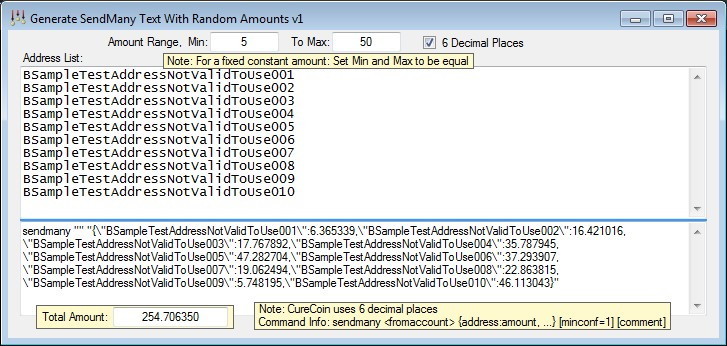
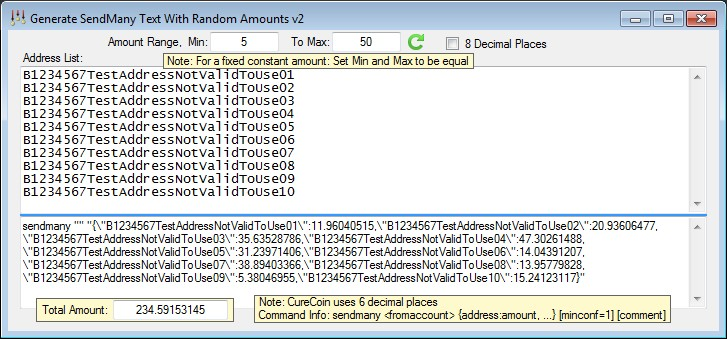
v2 release changes: Added a refresh/regenerate button. Added CTRL+A support to Select All text. Allowed more text in the text boxes

Changed region(s): [[0.0, 0.6195, 0.9986, 1.0], [0.0303, 0.0295, 0.9684, 0.59], [0.8473, 0.0295, 0.9986, 0.0885]]

diff --git a/README.md b/README.md
@@ -2,22 +2,23 @@
 
 ![Screenshot](Screenshot.jpg)
 
-## Releases
-
+## Features
 - Simple SendMany command text generator for use with Bitcoin-like wallets (CureCoin) for giveaways or airdrops
-- **See [GenSendManyText Releases](https://github.com/Hou5e/GenSendManyText/releases) for the Windows executable**
+- Just copy and paste the generated text into the wallet's: Help | Debug Window | Console tab
 - Creates random amounts based on the specified range of values to 6 or 8 decimal places
 - Creates fixed constant amounts if the Min and Max are the same value
-- Just copy and paste the generated text into the wallet's: Help | Debug Window | Console tab
+- Auto-regenerates on changes or pressing the regenerate button, and displays the total amount to distribute
+- Supports CTRL+A to Select All text
+
+## Releases
+- **See [GenSendManyText Releases](https://github.com/Hou5e/GenSendManyText/releases) for the Windows executable**
 - **Please ask questions on the Discord Contact links below**
 - GenSendManyText is written in VB.NET, compiled with VS2015, targeting the .NET Framework v4.6.1
 
 ## License
-
 - GenSendManyText is public domain licensed under [The Unlicense](LICENSE "The Unlicense")
 
 ## Contact
-
 **Please ask questions on Discord (I'm user Hou5e):**
   * [FoldingCoin Discord Invite](https://discord.gg/CvZ7gAs)
   * [CureCoin Discord Invite](https://discord.gg/jtztkFZ)
